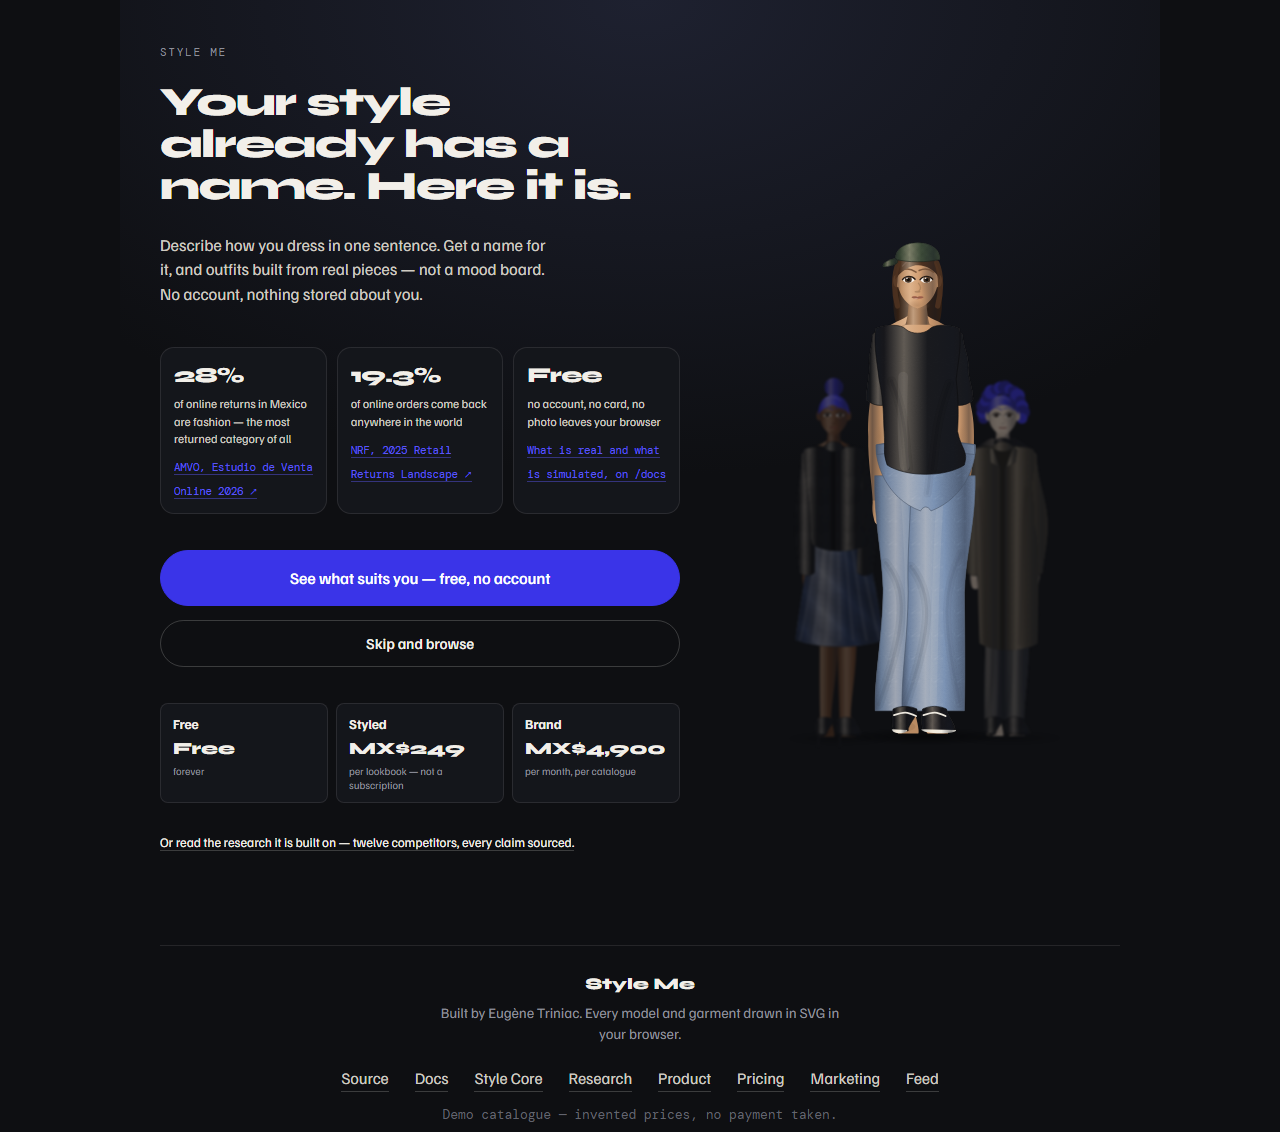
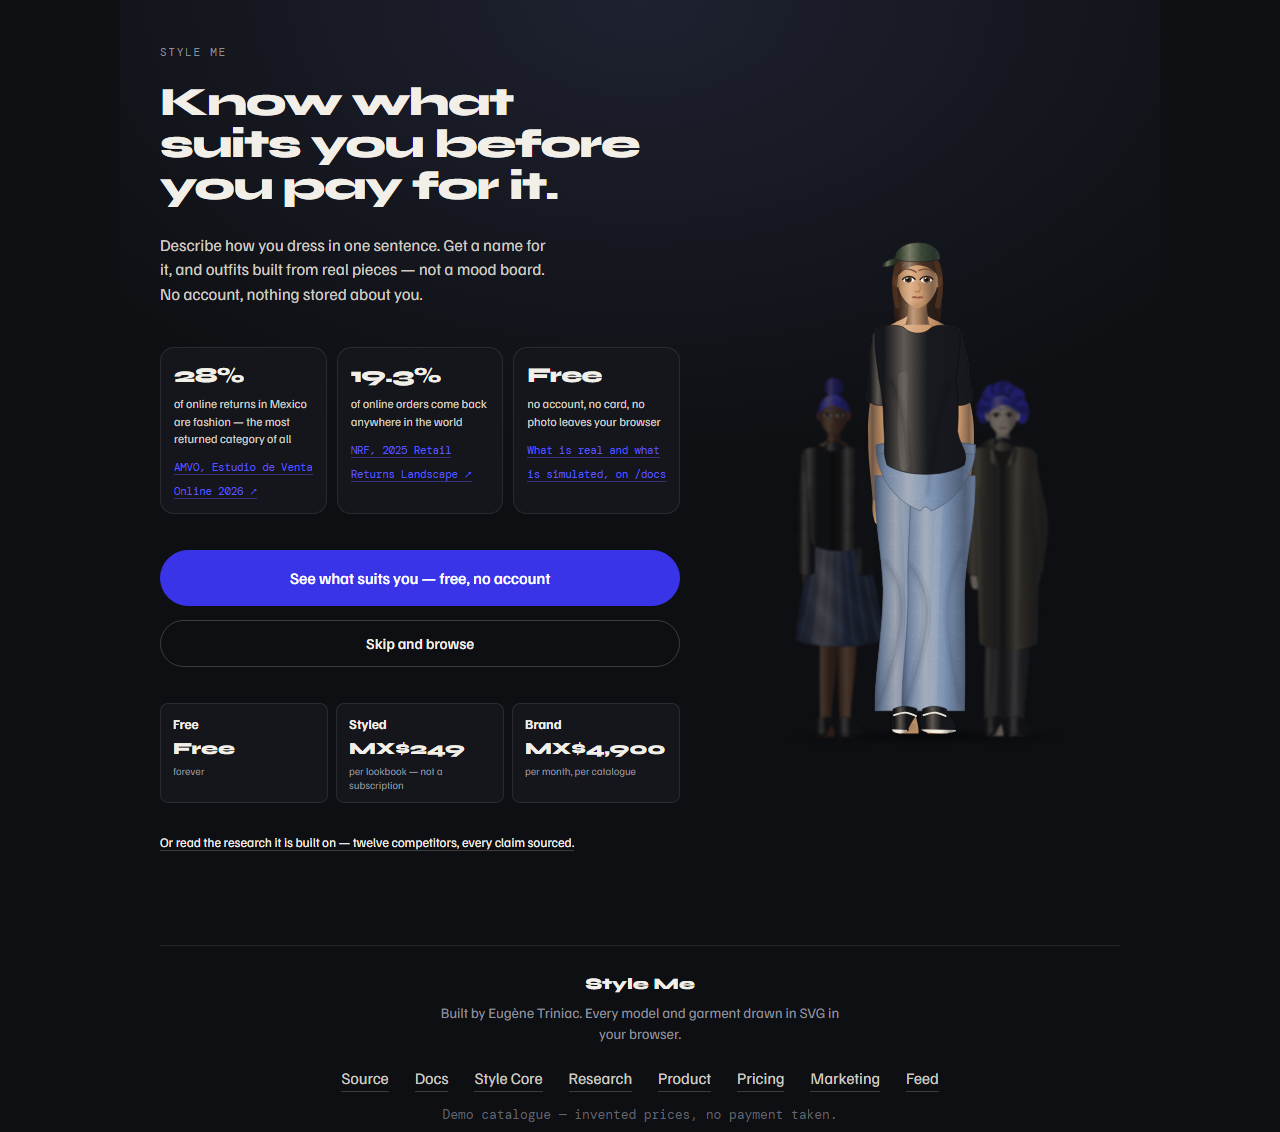
docs: trames des preuves et note de decision de la semaine 4
Six defauts documentes, dont celui que seule A1 pouvait trouver : les
deux experiences A/B etaient en realite une seule.

Changed region(s): [[0.125, 0.0618, 0.5, 0.1855]]

diff --git a/docs/week-4/test-evidence.md b/docs/week-4/test-evidence.md
@@ -1,0 +1,116 @@
+# Test Evidence — Week 4
+
+**Live surfaces under test:** https://style-me-five.vercel.app/ (landing) ·
+https://style-me-five.vercel.app/marketing
+**Date:** 20 October 2026
+
+The week asks for **2 A/B tests and 3 software tests**. All five are scripted
+in `docs/week-4/run-tests.ps1`, plus the standing security check on the two new
+tables.
+
+---
+
+## How the A/B tests are run
+
+A fresh browser profile every run, so every run is a visitor who has never been
+here. That is what lets **A2** record a genuine first impression and a genuine
+conversion against the live database rather than a simulated one.
+
+**A1 tests the assignment itself** — 20,000 synthetic visitors drawn in the
+browser — because an A/B test with a broken split produces confident, wrong
+answers forever. **A2 tests the loop end to end**, and then asks the harder
+question: what does the data we actually have support?
+
+---
+
+## Results
+
+*[filled in from `evidence/results.json` after the final run]*
+
+---
+
+## Defects found this week
+
+### 1 — Two experiments that were secretly one
+
+Found by **A1, before a single real visitor**. The headline draw and the CTA
+draw agreed **100% of the time**: every visitor who saw headline A also saw CTA
+A.
+
+The cause is a trap worth writing down. Assignment used
+`hash(visitor + ':' + experiment) % 2` over an FNV-1a hash. FNV multiplies by
+an odd constant, and multiplying by an odd number **never changes the lowest
+bit** — so `% 2` was reading nothing but the parity of the character codes.
+Both experiment names happened to share that parity, which made the two draws
+identical for every visitor.
+
+It would have looked perfectly healthy in production: a clean 50/50 split in
+each experiment, and two results that always moved together. The fix is an
+avalanche step that mixes the high bits down before the modulo. After it:
+headline 50.1/49.9, CTA 50.3/49.7, agreement 50.5% — a coin.
+
+### 2 — The drawn figure vanished from the homepage
+
+The old welcome screen put the SVG model behind a short block of copy, with a
+gradient fading it out. With a headline, three proof points, two buttons and
+three tier cards, the body filled the viewport and the scrim covered the
+drawing completely — removing the one thing on the page no competitor has. The
+art is now a block of its own: above the copy on a phone, beside it on a
+desktop.
+
+### 3 — The footer jumped to the top
+
+Introduced by the fix for the one above. The new grid gave `order` to the copy
+and the art and left the footer without one; CSS defaults `order` to 0, so the
+footer sorted ahead of both. Found in the next screenshot.
+
+### 4 — A monitor reporting on two fifths of the database
+
+`api/keepalive.js` still listed only `core_outputs` and `research_records`.
+Week 3's `pricing_scenarios` was never added to it. The pause behaviour was
+never at risk — one query wakes the whole project — but a route whose only job
+is to report on the database was quietly reporting on part of it. All five
+tables are in the list now.
+
+### 5 — One failing test killed the other five
+
+The first run of this suite died on a JavaScript exception inside A2, and
+**four checks that would have passed never reported at all**. A test that
+cannot run must fail alone. Each test is now wrapped, and `SM.ab.summarise`
+treats a non-array response as zero rows instead of throwing — which is also
+what the marketing page needs the moment the database is unreachable.
+
+### 6 — The clipboard check compared platforms, not text
+
+S2 read 336 characters back from a 334-character post and failed. Windows
+returns every newline as CRLF, so one blank line costs two characters that were
+never copied. The copy was faithful; the comparison was naive. It now
+normalises line endings before comparing.
+
+---
+
+## Iteration log
+
+| # | What changed | Why | Commit |
+|---|---|---|---|
+| 1 | Avalanche step added to the A/B hash | `% 2` on an FNV hash is a parity bit; the two experiments were one | `f9c644f` |
+| 2 | Landing hero relaid out, art as its own block | The scrim hid the drawn figure entirely | `f9c644f` |
+| 3 | `order: 3` on the landing footer | It sorted to the top of the page | `f9c644f` |
+| 4 | All five tables added to the keepalive | It was reporting on two of them | `f9c644f` |
+| 5 | Per-test isolation; `summarise` tolerates a non-array | One exception took the whole suite down | `360d57c` |
+| 6 | Clipboard comparison normalises line endings | CRLF is not a difference in the text | *(this week)* |
+
+---
+
+## What this round taught me
+
+The A/B machinery is the first thing in this project that could have been
+wrong for weeks without anyone noticing. A broken split does not throw, does
+not look odd, and produces a tidy table of numbers that happen to be
+meaningless. It was caught because A1 was written to test the *assignment*
+rather than the feature — twenty thousand draws before a single real visitor.
+
+The second lesson is the same one as Week 3, from the other direction: three of
+the six defects were in the page as a reader sees it, and all three were found
+by looking at a screenshot. The tests are getting better at arithmetic and no
+better at noticing that a figure disappeared.
